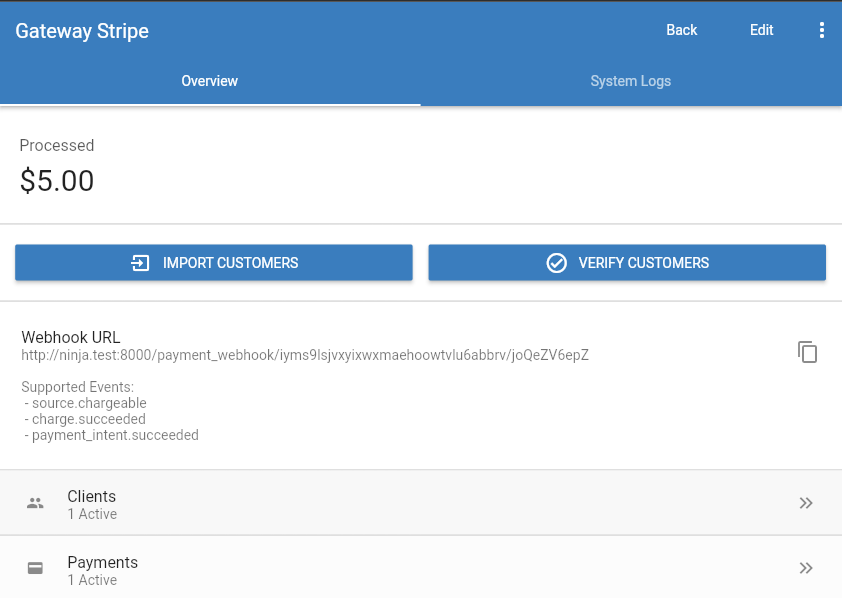
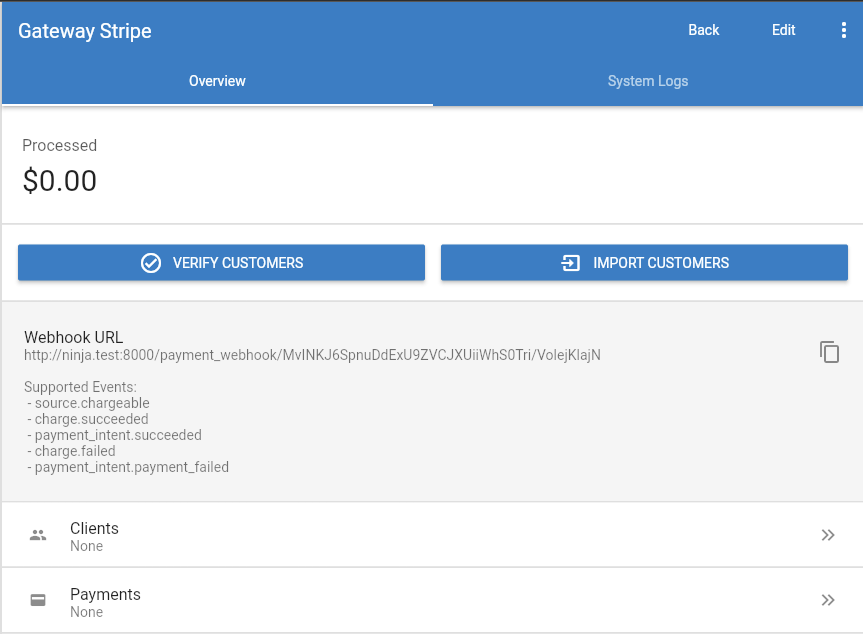
Update stripe webhook configuration

diff --git a/source/docs/hosted-stripe.md b/source/docs/hosted-stripe.md
@@ -33,6 +33,6 @@ Using these details, log into Stripe and navigate to Developers > Webhooks
 
 ![alt text](/assets/images/stripe/stripe_webhook_overview_2.png "Webhook edit in Stripe")
 
-Enter in your dedicated webhook URL as well as the three event types
+Enter in your dedicated webhook URL as well as the five event types
 
 ![alt text](/assets/images/stripe/stripe_webhook_overview_3.png "Add Events")
